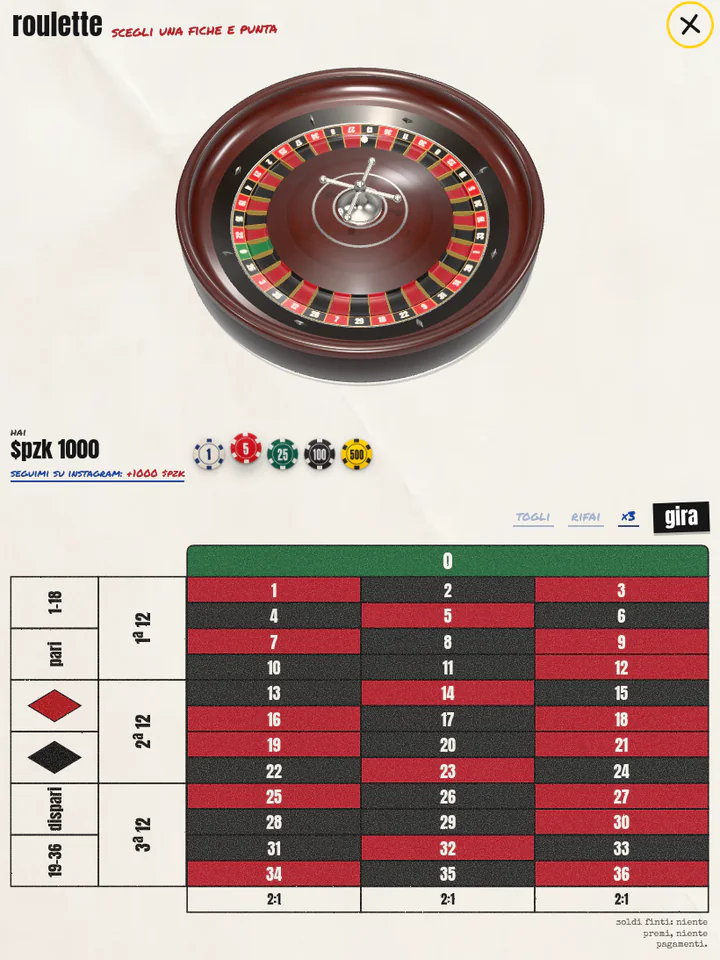
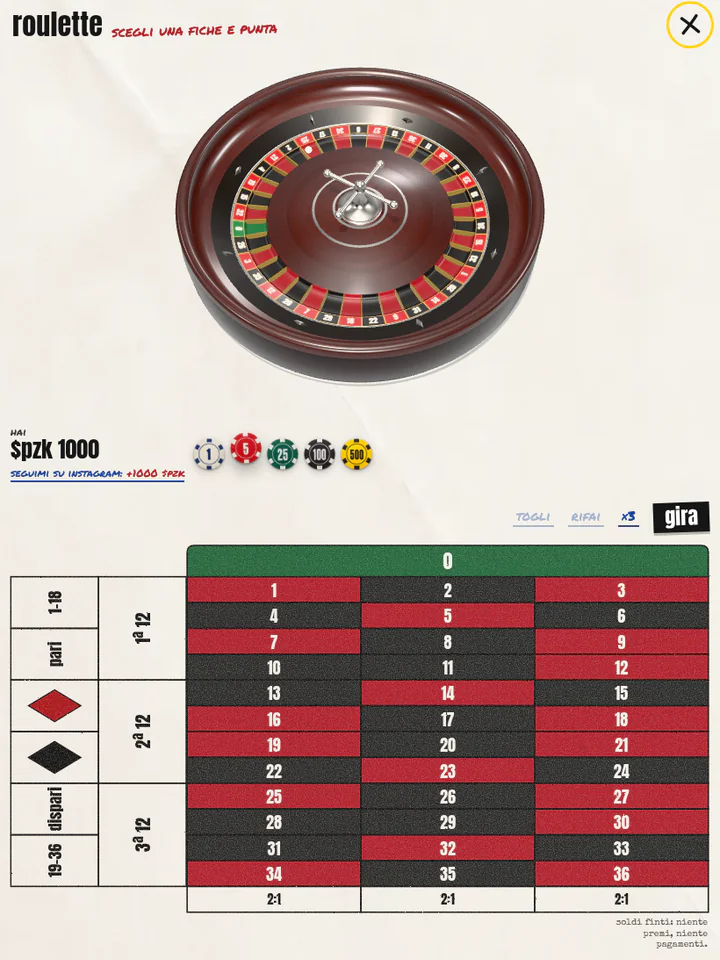
Catture aggiornate: pzkko
Rifatte da .github/workflows/catture.yml: il sito online era cambiato.

Changed region(s): [[0.3056, 0.125, 0.7028, 0.3438]]

diff --git a/albertopecchini.it/src/data/catture.js b/albertopecchini.it/src/data/catture.js
@@ -28,16 +28,16 @@ export const catture = {
   'dd-mobile-tall.webp': { w: 600, h: 4000, v: '8e1cff59' },
   'dd-mobile.webp': { w: 600, h: 1298, v: '93168203' },
   'dd-tablet.webp': { w: 720, h: 1036, v: '24abfc77' },
-  'pzk-404-mobile.webp': { w: 600, h: 1298, v: 'a279398a' },
+  'pzk-404-mobile.webp': { w: 600, h: 1298, v: '4d59cc98' },
   'pzk-bologna-m.webp': { w: 540, h: 720, v: 'ae6d59d0' },
   'pzk-bologna.webp': { w: 1080, h: 1440, v: '4cc7cd1d' },
-  'pzk-desktop-tall.webp': { w: 1200, h: 2833, v: '08fb453b' },
-  'pzk-desktop.webp': { w: 1200, h: 750, v: 'ea4fe510' },
-  'pzk-mobile-tall.webp': { w: 600, h: 4000, v: 'c0086b12' },
-  'pzk-mobile.webp': { w: 600, h: 1298, v: '00082441' },
-  'pzk-notte-desktop.webp': { w: 1200, h: 750, v: '364b77e3' },
-  'pzk-roulette-tablet.webp': { w: 720, h: 960, v: '77351932' },
-  'pzk-tablet.webp': { w: 720, h: 1036, v: 'c609fd31' },
+  'pzk-desktop-tall.webp': { w: 1200, h: 2833, v: '39209ad9' },
+  'pzk-desktop.webp': { w: 1200, h: 750, v: '215cca23' },
+  'pzk-mobile-tall.webp': { w: 600, h: 4000, v: '46e14b6b' },
+  'pzk-mobile.webp': { w: 600, h: 1298, v: '761ed58a' },
+  'pzk-notte-desktop.webp': { w: 1200, h: 750, v: '2c4e16b4' },
+  'pzk-roulette-tablet.webp': { w: 720, h: 960, v: 'acf0c961' },
+  'pzk-tablet.webp': { w: 720, h: 1036, v: '70eb8910' },
   'rivalta-desktop-tall.webp': { w: 1200, h: 2833, v: 'faeb28d8' },
   'rivalta-desktop.webp': { w: 1200, h: 750, v: '31bc36e7' },
   'rivalta-luogo-tablet.webp': { w: 720, h: 960, v: '56b88992' },
